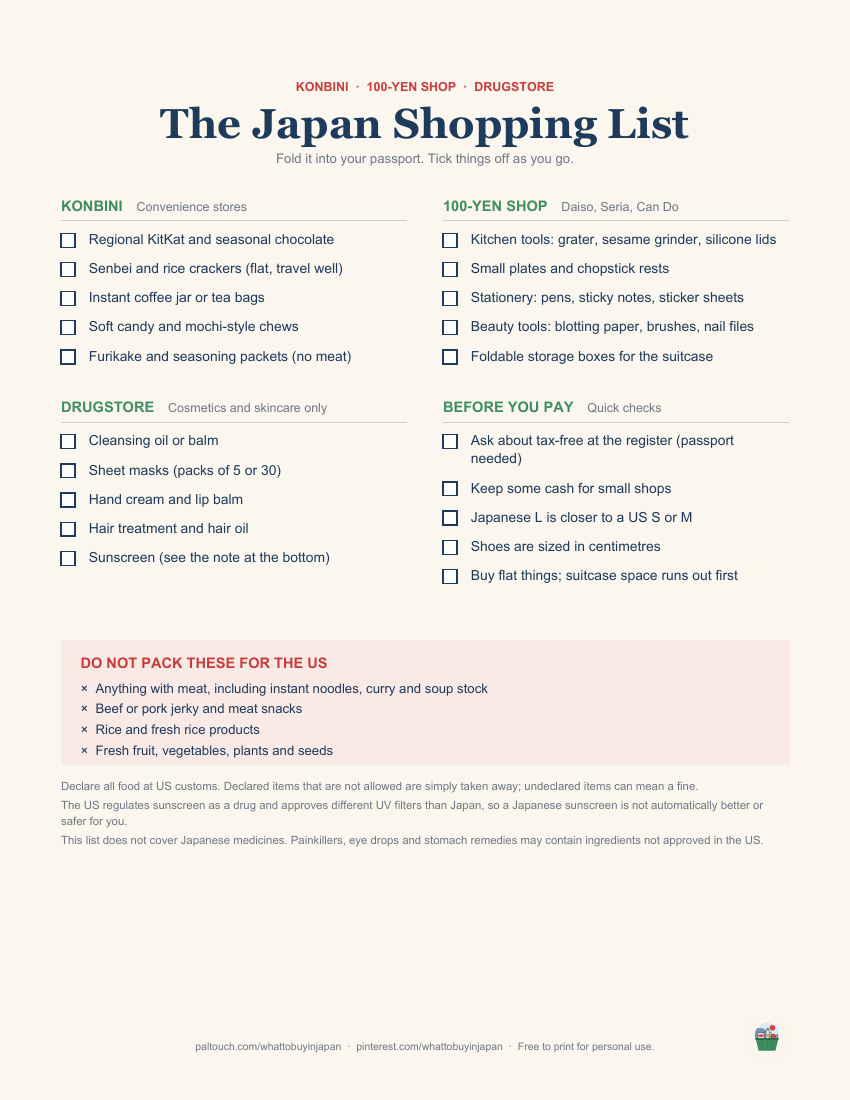
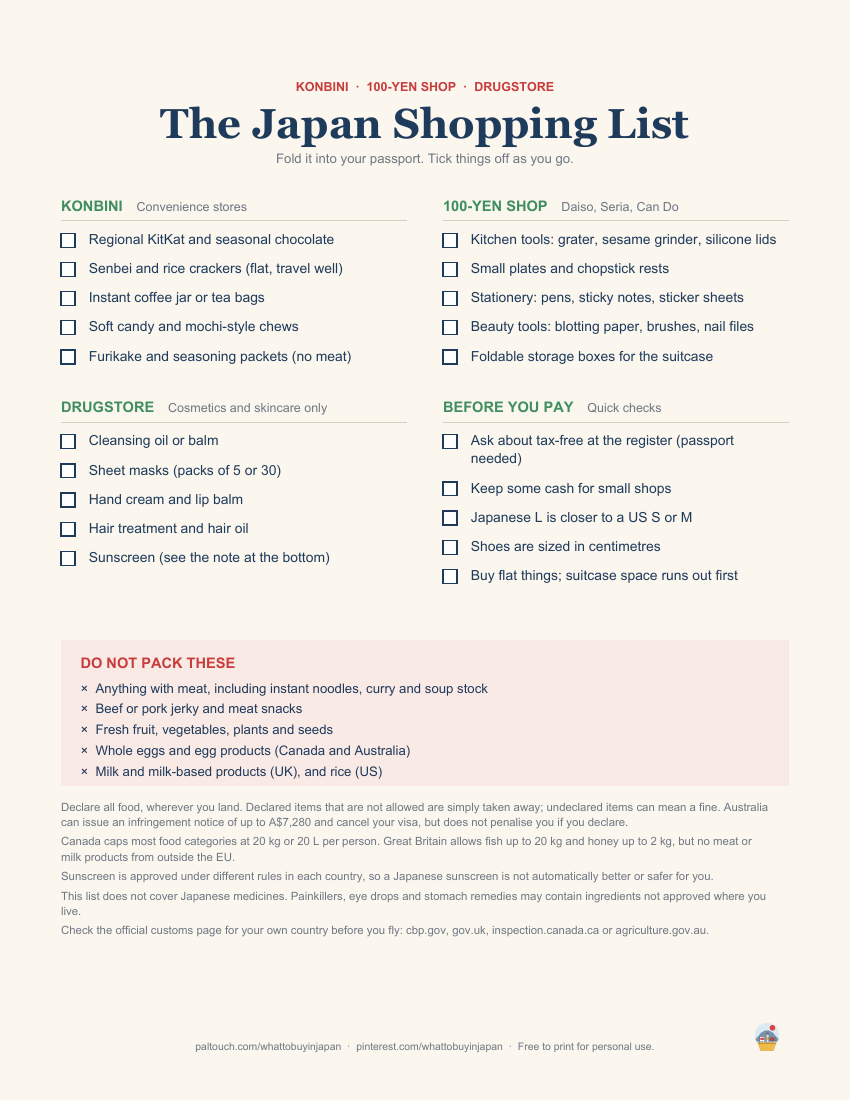
Rewrite Japan guide for US/UK/CA/AU travellers, add A4 checklist

Changed region(s): [[0.0612, 0.6491, 0.8871, 0.8655], [0.2753, 0.5873, 0.3976, 0.6182], [0.8871, 0.9273, 0.9176, 0.9582]]

diff --git a/whattobuyinjapan/buy-in-japan/index.html b/whattobuyinjapan/buy-in-japan/index.html
@@ -4,7 +4,7 @@
 <meta charset="utf-8">
 <meta name="viewport" content="width=device-width, initial-scale=1">
 <title>What to Buy in Japan: Konbini, 100-Yen Shops and Drugstores</title>
-<meta name="description" content="A shopping list written in Japan: what to buy at convenience stores, 100-yen shops and drugstores, and what US customs will not let you bring home.">
+<meta name="description" content="A shopping list written in Japan: what to buy at convenience stores, 100-yen shops and drugstores, and what customs in the US, UK, Canada and Australia will not let you bring home.">
 <link rel="canonical" href="https://paltouch.com/whattobuyinjapan/buy-in-japan/">
 <meta name="p:domain_verify" content="027f065956ab788719f186ab090b9a22"/>
 <meta name='impact-site-verification' value='0a3e6370-263f-412f-8a70-57fe45822775'>
@@ -52,32 +52,55 @@
     <li><strong>Cleansing oil and balm</strong>, in sizes that make sense to carry.</li>
     <li><strong>Sheet masks</strong>, sold in packs of five or thirty.</li>
     <li><strong>Hand cream, lip balm and hair treatments.</strong></li>
-    <li><strong>Sunscreen</strong>, which is the one category to read carefully. The US regulates sunscreen as a drug and has approved a different list of UV filters than Japan, so a Japanese sunscreen is not automatically a better or safer choice for you. <a href="https://www.fda.gov/cosmetics/cosmetics-international-activities/cosmetics-importers" rel="noopener" target="_blank">FDA: Cosmetics importers</a></li>
+    <li><strong>Sunscreen</strong>, which is the one category to read carefully. The US regulates sunscreen as a drug and has approved a different list of UV filters than Japan, and the UK, Canada and Australia each run their own approval list too, so a Japanese sunscreen is not automatically a better or safer choice for you. <a href="https://www.fda.gov/cosmetics/cosmetics-international-activities/cosmetics-importers" rel="noopener" target="_blank">FDA: Cosmetics importers</a></li>
   </ul>
-  <p><strong>We do not cover Japanese medicines here.</strong> Painkillers, eye drops and stomach remedies sold in Japanese drugstores can contain ingredients that are not approved in the US, so this site does not recommend buying them to take or ship home.</p>
+  <p><strong>We do not cover Japanese medicines here.</strong> Painkillers, eye drops and stomach remedies sold in Japanese drugstores can contain ingredients that are not approved where you live, so this site does not recommend buying them to take or ship home.</p>
 
   
   <h2>What you cannot bring home</h2>
-  <p>This is the part most shopping guides skip, and it is the part that gets suitcases opened at the airport.</p>
-  <ul>
-    <li><strong>Anything with meat is generally not allowed</strong> into the US, and that includes things you would not think of as meat: instant noodles and curry with pork or beef, soup stock, bouillon cubes, and jerky. <a href="https://www.cbp.gov/travel/us-citizens/know-before-you-go/prohibited-and-restricted-items" rel="noopener" target="_blank">US CBP: Prohibited and Restricted Items</a></li>
-    <li><strong>Rice is restricted</strong> because of pests, so leave the bags of rice and fresh rice products behind. <a href="https://www.cbp.gov/travel/us-citizens/know-before-you-go/prohibited-and-restricted-items" rel="noopener" target="_blank">US CBP: Prohibited and Restricted Items</a></li>
-    <li><strong>Fresh fruit, vegetables, plants and seeds</strong> are restricted or prohibited. <a href="https://www.cbp.gov/travel/international-visitors/agricultural-items" rel="noopener" target="_blank">US CBP: Agricultural Items</a></li>
-    <li><strong>Usually fine:</strong> candy, chocolate, baked sweets, senbei, seasonings, honey, tea and coffee. <a href="https://www.aphis.usda.gov/traveling-with-ag-products/meats-poultry-seafood" rel="noopener" target="_blank">USDA APHIS: Traveling with meats, poultry and seafood</a></li>
-  </ul>
-  <p><strong>Declare everything.</strong> If you declare food and it turns out you cannot bring it in, it is taken away and that is the end of it. If you do not declare it, you can be fined. Rules also change by country and by year, so check before you fly. <a href="https://www.cbp.gov/travel/international-visitors/agricultural-items" rel="noopener" target="_blank">US CBP: Agricultural Items</a></p>
+  <p>This is the part most shopping guides skip, and it is the part that gets suitcases opened at the airport. The rules are not the same everywhere, so the honest answer depends on where you are flying back to.</p>
+
+  <p><strong>Safe almost everywhere:</strong> candy, chocolate, biscuits, senbei and rice crackers, packaged tea and coffee, and sealed seasonings that contain no meat.</p>
+  <p><strong>Not worth packing anywhere:</strong> anything containing meat, fresh fruit and vegetables, plants and seeds, and fresh sweets that will not survive the flight.</p>
+
+  <h3>The four countries most of our readers fly back to</h3>
+  <div class="table-wrap">
+  <table>
+    <thead><tr><th>Going home to</th><th>The rule that catches people out</th></tr></thead>
+    <tbody>
+      <tr>
+        <th>United States</th>
+        <td>Meat is generally not allowed, and that includes things you would not think of as meat: instant noodles and retort curry made with pork or beef, soup stock and bouillon cubes, and jerky. Rice is restricted because of pests. Fresh fruit, vegetables, plants and seeds are restricted or prohibited. <a href="https://www.cbp.gov/travel/us-citizens/know-before-you-go/prohibited-and-restricted-items" rel="noopener" target="_blank">US CBP: Prohibited and Restricted Items</a> <a href="https://www.cbp.gov/travel/international-visitors/agricultural-items" rel="noopener" target="_blank">US CBP: Agricultural Items</a></td>
+      </tr>
+      <tr>
+        <th>United Kingdom</th>
+        <td>Coming from outside the EU, meat and meat products and milk and milk-based products cannot be brought into Great Britain at all. Fish is capped at 20&nbsp;kg per person and honey at 2&nbsp;kg. Chocolate and confectionery, biscuits, dried noodles without meat, and packaged soup, stocks and flavourings are fine. Fruit, vegetables, nuts and seeds are restricted. <a href="https://www.gov.uk/bringing-food-into-great-britain/meat-dairy-fish-animal-products" rel="noopener" target="_blank">GOV.UK: Meat, dairy, fish and animal products</a> <a href="https://www.gov.uk/bringing-food-into-great-britain" rel="noopener" target="_blank">GOV.UK: Bringing food into Great Britain</a></td>
+      </tr>
+      <tr>
+        <th>Canada</th>
+        <td>Every food item has to be declared, and most categories are capped at 20&nbsp;kg or 20&nbsp;L per person, including confectionery, snacks, tea and coffee. Eggs and egg products are not permitted from Japan. Only commercially prepared, cooked, shelf-stable meat in sealed containers is allowed at all, and further country restrictions sit on top of that, so meat is not worth the gamble. <a href="https://inspection.canada.ca/en/food-safety-consumers/bring-food-personal-use" rel="noopener" target="_blank">CFIA: Bringing food into Canada for personal use</a> <a href="https://www.cbsa-asfc.gc.ca/services/fpa-apa/bringing-apporter-fpa-eng.html" rel="noopener" target="_blank">CBSA: Bringing food, plant and animal products into Canada</a></td>
+      </tr>
+      <tr>
+        <th>Australia</th>
+        <td>The strictest of the four. Meat is prohibited in every form, fresh, dried, preserved or cured, and whole eggs and egg products are prohibited too. Commercially packaged noodles and pasta made only from plant ingredients are permitted. Seeds need a phytosanitary certificate. Everything goes on the Incoming Passenger Card. <a href="https://www.abf.gov.au/entering-and-leaving-australia/can-you-bring-it-in/categories/food" rel="noopener" target="_blank">Australian Border Force: What food can you bring in?</a> <a href="https://www.agriculture.gov.au/biosecurity-trade/travelling/bringing-mailing-goods" rel="noopener" target="_blank">Australian Government DAFF: Bringing or mailing goods to Australia</a></td>
+      </tr>
+    </tbody>
+  </table>
+  </div>
+
+  <p><strong>Declare everything, wherever you land.</strong> If you declare food and it turns out you cannot bring it in, it is taken away and that is the end of it. If you do not declare it, you can be fined: Australia can issue an infringement notice of up to A$7,280 and cancel your visa, and explicitly says you will not be penalised if you declare and present the goods. Rules also change by country and by year, so check the official page for your own country before you fly. <a href="https://www.agriculture.gov.au/biosecurity-trade/travelling/bringing-mailing-goods" rel="noopener" target="_blank">Australian Government DAFF: Bringing or mailing goods to Australia</a></p>
 
 
   <h2>Practical notes</h2>
   <ul>
-    <li><strong>Cash still matters</strong> in small shops, although cards and IC cards work almost everywhere in cities.</li>
-    <li><strong>Sizes run small.</strong> A Japanese L is often closer to a US small or medium, and shoes are sold in centimetres.</li>
+    <li><strong>Cash still matters</strong> in small shops, although cards and IC cards work almost everywhere in cities. Foreign cards are accepted in chains but not always in small local shops.</li>
+    <li><strong>Sizes run small.</strong> A Japanese L is often closer to a US or UK small to medium, and shoes are sold in centimetres rather than US, UK or AU sizes.</li>
     <li><strong>Many larger stores offer tax-free shopping</strong> for visitors with a passport, with a minimum spend. The rules change, so ask at the register before you pay.</li>
     <li><strong>Buy the flat things.</strong> Suitcase space runs out faster than money does.</li>
   </ul>
 
   <p><a class="button" href="../checklist/index.html">Get the free printable shopping list</a></p>
-  <p>Already home and missing something? Read <a href="../order-from-home/index.html">how to order the same items from the US</a>.</p>
+  <p>Already home and missing something? Read <a href="../order-from-home/index.html">how to order the same items from abroad</a>.</p>
 </article>
 
 </main>

diff --git a/whattobuyinjapan/order-from-home/index.html b/whattobuyinjapan/order-from-home/index.html
@@ -3,8 +3,8 @@
 <head>
 <meta charset="utf-8">
 <meta name="viewport" content="width=device-width, initial-scale=1">
-<title>How to Buy Japanese Snacks and Beauty From the US</title>
-<meta name="description" content="Four ways to order Japanese snacks, drugstore beauty and 100-yen shop goods from the US after a trip, with the customs rules that still apply.">
+<title>How to Buy Japanese Snacks and Beauty From Abroad</title>
+<meta name="description" content="Five ways to order Japanese snacks, drugstore beauty and 100-yen shop goods from the US, UK, Canada or Australia after a trip, with the customs rules that still apply.">
 <link rel="canonical" href="https://paltouch.com/whattobuyinjapan/order-from-home/">
 <meta name="p:domain_verify" content="027f065956ab788719f186ab090b9a22"/>
 <meta name='impact-site-verification' value='0a3e6370-263f-412f-8a70-57fe45822775'>
@@ -20,20 +20,20 @@
 
 <article class="prose">
   <p class="kicker">AFTER THE TRIP</p>
-  <h1>How to Buy Japanese Snacks and Beauty From the US</h1>
+  <h1>How to Buy Japanese Snacks and Beauty From Abroad</h1>
   <p class="meta">Four ways to get the same items again, and what each one is actually good for.</p>
   <aside class="note"><strong>Disclosure:</strong> This page contains affiliate links. If you buy through them, we may earn a commission at no extra cost to you. It does not change what we recommend.</aside>
 
-  <p>The bag of snacks runs out in two weeks. Here is how people replace it, from easiest to most work.</p>
+  <p>The bag of snacks runs out in two weeks. Here are five ways people replace it, from easiest to most work. Which one is cheapest depends on what you are buying, not on which service is best.</p>
 
   <div class="table-wrap">
   <table>
     <thead><tr><th>Route</th><th>Best for</th><th>Watch out for</th></tr></thead>
     <tbody>
       <tr>
-        <th>Amazon and US shops</th>
+        <th>Amazon and local shops</th>
         <td>The famous items: KitKat, instant coffee, well-known skincare.</td>
-        <td>Prices are much higher than in Japan, and sellers vary. Check the expiry date in the listing.</td>
+        <td>Prices are much higher than in Japan, and sellers vary. Check the expiry date in the listing. Stock differs a lot between the US, UK, Canadian and Australian sites.</td>
       </tr>
       <tr>
         <th>Snack subscription boxes<br>(<a href="https://tokyotreat.com/" rel="noopener" target="_blank">TokyoTreat</a>, <a href="https://sakura.co/" rel="noopener" target="_blank">Sakuraco</a>)</th>
@@ -50,18 +50,23 @@
         <td>Items no exporter carries: convenience-store limited editions, 100-yen shop goods, second-hand finds.</td>
         <td>You pay a service fee plus domestic and international shipping. Small orders often cost more in fees than in goods.</td>
       </tr>
+      <tr>
+        <th>Forwarding addresses<br>(<a href="https://global-express.rakuten.co.jp/" rel="noopener" target="_blank">Rakuten Global Express</a>)</th>
+        <td>Shops that only deliver inside Japan. You buy on the Japanese site yourself, have it sent to a Japanese warehouse, and they forward one box to you.</td>
+        <td>You still have to read the Japanese shop. Best when you are combining several orders into one parcel, because you pay international postage once.</td>
+      </tr>
     </tbody>
   </table>
   </div>
 
   <h2>The same customs rules apply to parcels</h2>
-  <p>Shipping does not change what is allowed into the US. Meat-based products, including instant noodles and soup stock with pork or beef, are still a problem, and rice is still restricted. Buy candy, chocolate, senbei, tea and seasonings instead. <a href="https://www.cbp.gov/travel/us-citizens/know-before-you-go/prohibited-and-restricted-items" rel="noopener" target="_blank">US CBP: Prohibited and Restricted Items</a></p>
+  <p>Shipping does not change what your country allows in. Meat-based products, including instant noodles and soup stock with pork or beef, are refused in all four countries, and the US also restricts rice. Buy candy, chocolate, senbei, tea and seasonings instead. A parcel that is turned back costs you the goods and the postage. <a href="https://www.cbp.gov/travel/us-citizens/know-before-you-go/prohibited-and-restricted-items" rel="noopener" target="_blank">US CBP: Prohibited and Restricted Items</a></p>
 
   <h2>How to keep the cost sane</h2>
   <ul>
     <li><strong>Consolidate.</strong> Every route charges by parcel and by weight. One order of ten items is far cheaper than ten orders of one.</li>
     <li><strong>Decide what is actually worth it.</strong> Snacks are cheap in Japan and expensive to ship. Skincare and kitchen tools survive the maths better.</li>
-    <li><strong>Check the total before you commit.</strong> Service fee, domestic shipping inside Japan, international shipping and any duty are four separate numbers.</li>
+    <li><strong>Check the total before you commit.</strong> Service fee, domestic shipping inside Japan, international shipping and any duty or import VAT are four separate numbers. The UK charges VAT on most parcels, Australia has a low-value threshold, and Canada adds a handling fee on top of duty.</li>
   </ul>
 
   <p>Going back soon? Take the <a href="../buy-in-japan/index.html">shopping list</a> with you instead.</p>

diff --git a/whattobuyinjapan/checklist/index.html b/whattobuyinjapan/checklist/index.html
@@ -4,7 +4,7 @@
 <meta charset="utf-8">
 <meta name="viewport" content="width=device-width, initial-scale=1">
 <title>Free Printable Japan Shopping List</title>
-<meta name="description" content="A free one-page printable shopping list for a trip to Japan, including what you cannot bring back into the US.">
+<meta name="description" content="A free one-page printable shopping list for a trip to Japan, including what you cannot bring back into the US, UK, Canada or Australia.">
 <link rel="canonical" href="https://paltouch.com/whattobuyinjapan/checklist/">
 <meta name="p:domain_verify" content="027f065956ab788719f186ab090b9a22"/>
 <meta name='impact-site-verification' value='0a3e6370-263f-412f-8a70-57fe45822775'>
@@ -21,9 +21,10 @@
 <article class="prose center">
   <p class="kicker">FREE PRINTABLE</p>
   <h1>The Japan Shopping List</h1>
-  <p class="lead">One page for your trip: what to pick up at the konbini, the 100-yen shop and the drugstore, and what US customs will not let you bring home.</p>
-  <p><a class="button" href="../downloads/japan-shopping-list.pdf" download>Download the PDF</a></p>
-  <p class="meta">US Letter size (8.5 x 11 in) &middot; 1 page &middot; No sign-up needed</p>
+  <p class="lead">One page for your trip: what to pick up at the konbini, the 100-yen shop and the drugstore, and what customs will not let you bring home.</p>
+  <p><a class="button" href="../downloads/japan-shopping-list.pdf" download>Download for US Letter</a>
+     <a class="button" href="../downloads/japan-shopping-list-a4.pdf" download>Download for A4</a></p>
+  <p class="meta">1 page &middot; No sign-up needed &middot; US Letter for the US and Canada, A4 for the UK and Australia</p>
   <img class="preview" src="../downloads/japan-list-preview.png" alt="Preview of the printable Japan shopping list" width="612" height="792">
   <p>Fold it into your passport. Tick things off as you go.</p>
   <p>The longer version is here: <a href="../buy-in-japan/index.html">what to buy in Japan</a>.</p>

diff --git a/whattobuyinjapan/disclosure/index.html b/whattobuyinjapan/disclosure/index.html
@@ -21,11 +21,11 @@
 <article class="prose">
   <h1>Disclosure and about this site</h1>
   <h2>Who writes this</h2>
-  <p>What to Buy in Japan is written in Japan. We only write about shops and products we have actually been to and bought from.</p>
+  <p>What to Buy in Japan is written in Japan by someone who shops in these stores. It is a guide, not a review: we describe what these shops sell and what the rules are for taking it home, and we do not claim to have personally tested every product we name.</p>
   <h2>Affiliate links</h2>
   <p>Some links on this site are affiliate links. If you click one and make a purchase, we may earn a commission at no extra cost to you. Affiliate relationships do not decide what we recommend, and we say so on every page that carries them.</p>
   <h2>What we do not do</h2>
-  <p>We do not recommend Japanese over-the-counter medicines for readers to buy or import, and we do not tell readers to bring home food that US customs prohibits.</p>
+  <p>We do not recommend Japanese over-the-counter medicines for readers to buy or import, and we do not tell readers to bring home food that their country&rsquo;s customs prohibits. Customs information on this site is summarised from the official government pages we link to, and those pages are the authority, not us.</p>
   <h2>How content is made</h2>
   <p>Some content on this site is drafted with the help of AI tools and reviewed before it is published.</p>
   <h2>Privacy</h2>

diff --git a/whattobuyinjapan/index.html b/whattobuyinjapan/index.html
@@ -4,7 +4,7 @@
 <meta charset="utf-8">
 <meta name="viewport" content="width=device-width, initial-scale=1">
 <title>What to Buy in Japan | Konbini, 100-Yen Shops and Drugstores</title>
-<meta name="description" content="Real shopping tips from Japan: what to buy on your trip and how to order it from the US afterwards.">
+<meta name="description" content="Real shopping tips from Japan: what to buy on your trip and how to order it from home afterwards.">
 <link rel="canonical" href="https://paltouch.com/whattobuyinjapan/">
 <meta name="p:domain_verify" content="027f065956ab788719f186ab090b9a22"/>
 <meta name='impact-site-verification' value='0a3e6370-263f-412f-8a70-57fe45822775'>
@@ -27,11 +27,11 @@
   <a class="card" href="buy-in-japan/index.html">
     <span class="kicker">ON YOUR TRIP</span>
     <strong>What to buy at konbini, 100-yen shops and drugstores</strong>
-    <span>Plus what US customs will not let you take home.</span>
+    <span>Plus what customs will not let you take home, country by country.</span>
   </a>
   <a class="card" href="order-from-home/index.html">
     <span class="kicker">AFTER YOUR TRIP</span>
-    <strong>How to order the same things from the US</strong>
+    <strong>How to order the same things from home</strong>
     <span>Boxes, Japanese shops that ship, and proxy buying compared.</span>
   </a>
   <a class="card" href="checklist/index.html">
